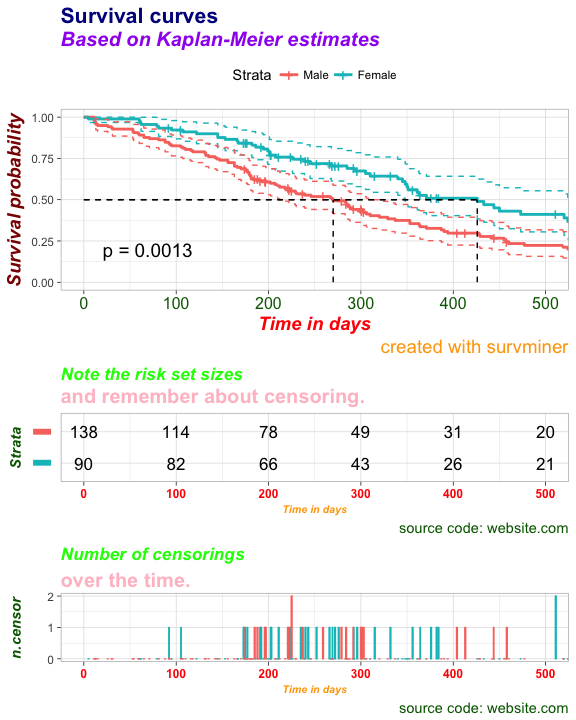
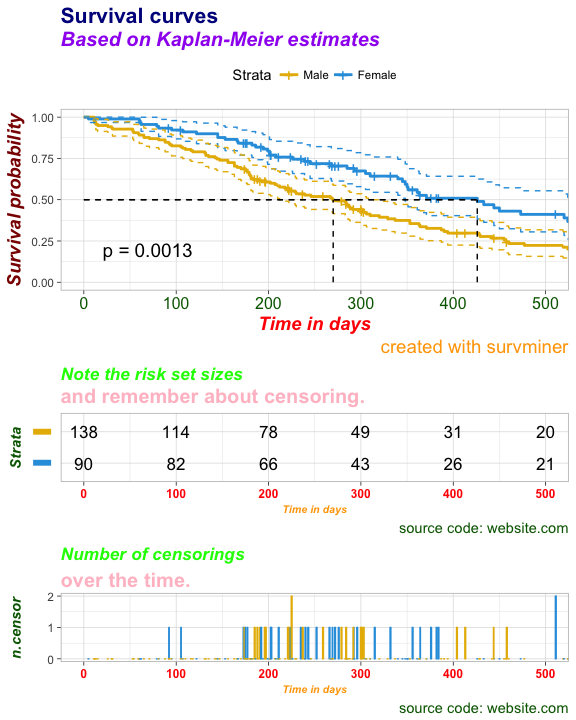
Readme updated #217

diff --git a/README.md b/README.md
@@ -111,62 +111,6 @@ Censor shape can be changed as follow:
 ggsurvplot(fit, data = lung, censor.shape="|", censor.size = 4)
 ```
 
-![](tools/README-ggplot2-basic-survival-plot-censor-1.png)
-
-### Computing and passing p-values
-
-The exact p-value of the log-rank test can be computed and be added to the plot:
-
-``` r
-ggsurvplot(fit, data = lung, pval = TRUE)
-```
-
-![](tools/README-ggplot2-basic-survival-plot-pval-logical-1.png)
-
-It is also possible to specify custom p-value, with numeric:
-
-``` r
-ggsurvplot(fit, data = lung, pval = 0.03)
-```
-
-![](tools/README-ggplot2-basic-survival-plot-pval-num-1.png)
-
-or a personalized character:
-
-``` r
-ggsurvplot(fit, data = lung, pval = "The hot p-value is 0.00***")
-```
-
-![](tools/README-ggplot2-basic-survival-plot-pval-char-1.png)
-
-Also the p-value of **weighted** log-rank tests can be computed and added to the plot:
-
-``` r
-ggsurvplot(
-  fit,
-  data = lung,
-  pval = TRUE,
-  pval.method = TRUE, # write the name of the test  
-                      # that was used compute the p-value?
-  pval.method.coord = c(3, 0.1), # coordinates for the name
-  pval.method.size = 4,          # size for the name of the test
-  # test specification
-  log.rank.weights = # use one from the included below
-                     # `i`    - time of an event
-                     # `n(i)` - risk set size in the time `i`
-# math formulas here - http://r-addict.com/2017/02/09/Fancy-Survival-Plots.html#weighted-log-rank-extensions
-   # "survdiff"      # regular p-value from survdiff function (all weights equal to 1)
-   # "1"             # regular p-value from survMisc::comp    (all weights equal to 1)
-   "n"               # Gehan and Breslow (for every `i` weights are equal to `n(i)`)
-   # "sqrtN",        # Tharone and Ware  (for every `i` weights are equal to `sqrt(n(i))`)
-   # "S1",           # Peto-Peto’s modified survival estimate
-   # "S2",           # modified Peto-Peto (by Andersen)
-   # "FH_p=1_q=1"    # Fleming-Harrington
-)
-```
-
-![](tools/README-ggplot2-basic-survival-plot-pval-weighted-1.png)
-
 ### Customized survival curves
 
 ``` r
@@ -226,6 +170,7 @@ ggsurv <- ggsurvplot(
            pval = TRUE,             # show p-value of log-rank test.
            conf.int = TRUE,         # show confidence intervals for 
                                     # point estimates of survival curves.
+           palette = c("#E7B800", "#2E9FDF"),
            xlim = c(0,500),         # present narrower X axis, but not affect
                                     # survival estimates.
            xlab = "Time in days",   # customize X axis label.
@@ -242,9 +187,7 @@ ggsurv <- ggsurvplot(
           legend.labs = 
             c("Male", "Female")    # change legend labels.
         )
-
-# Apply custom color palettes and print
-ggpar(ggsurv, palette = c("#E7B800", "#2E9FDF"))
+ggsurv
 ```
 
 ![](tools/README-ggplot2-uber-customized-survival-plot-1.png)
